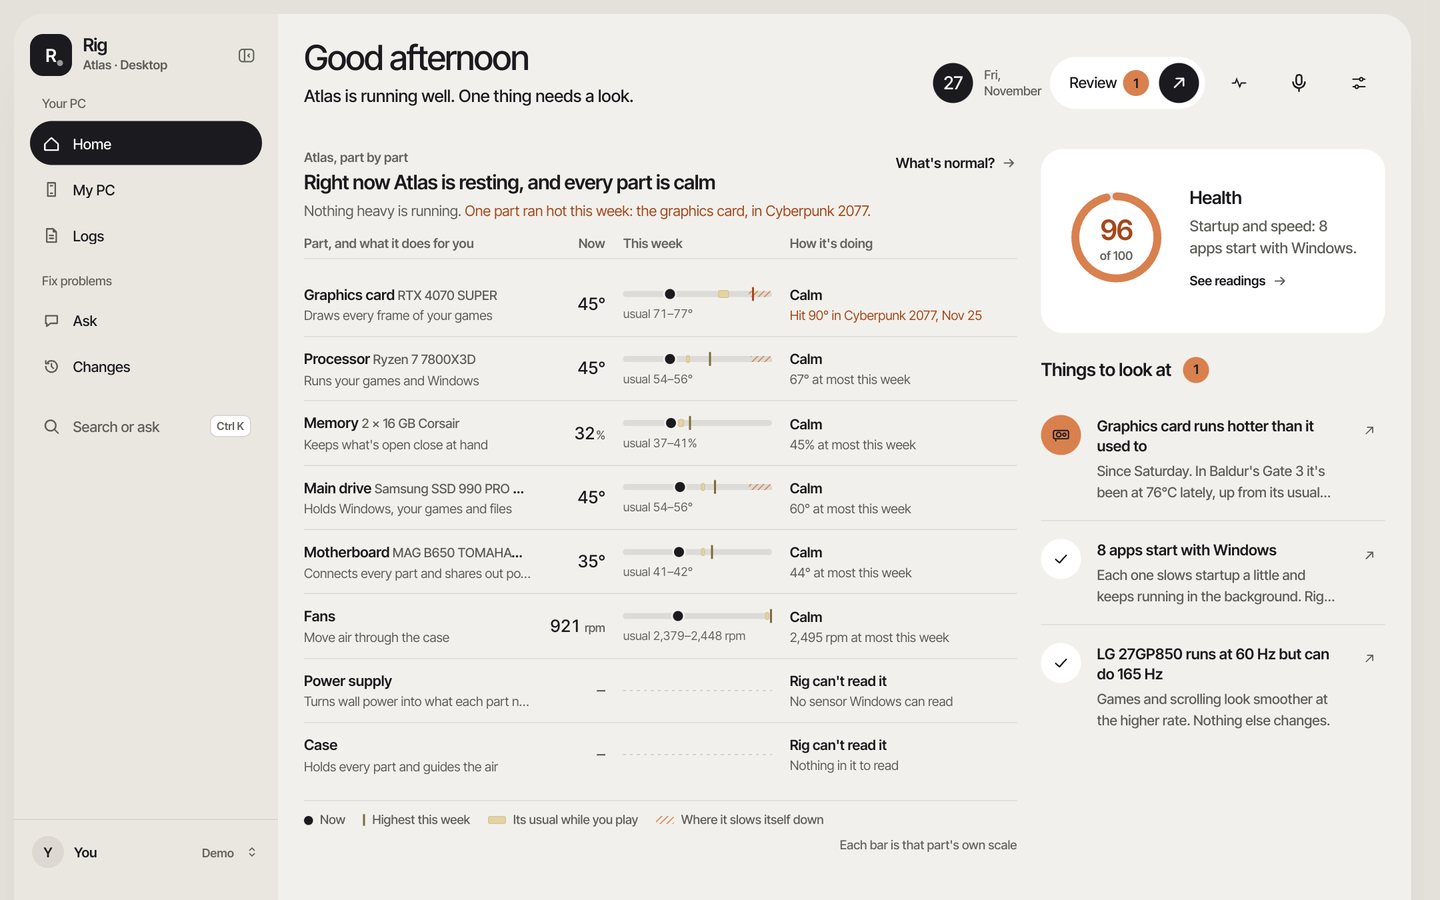
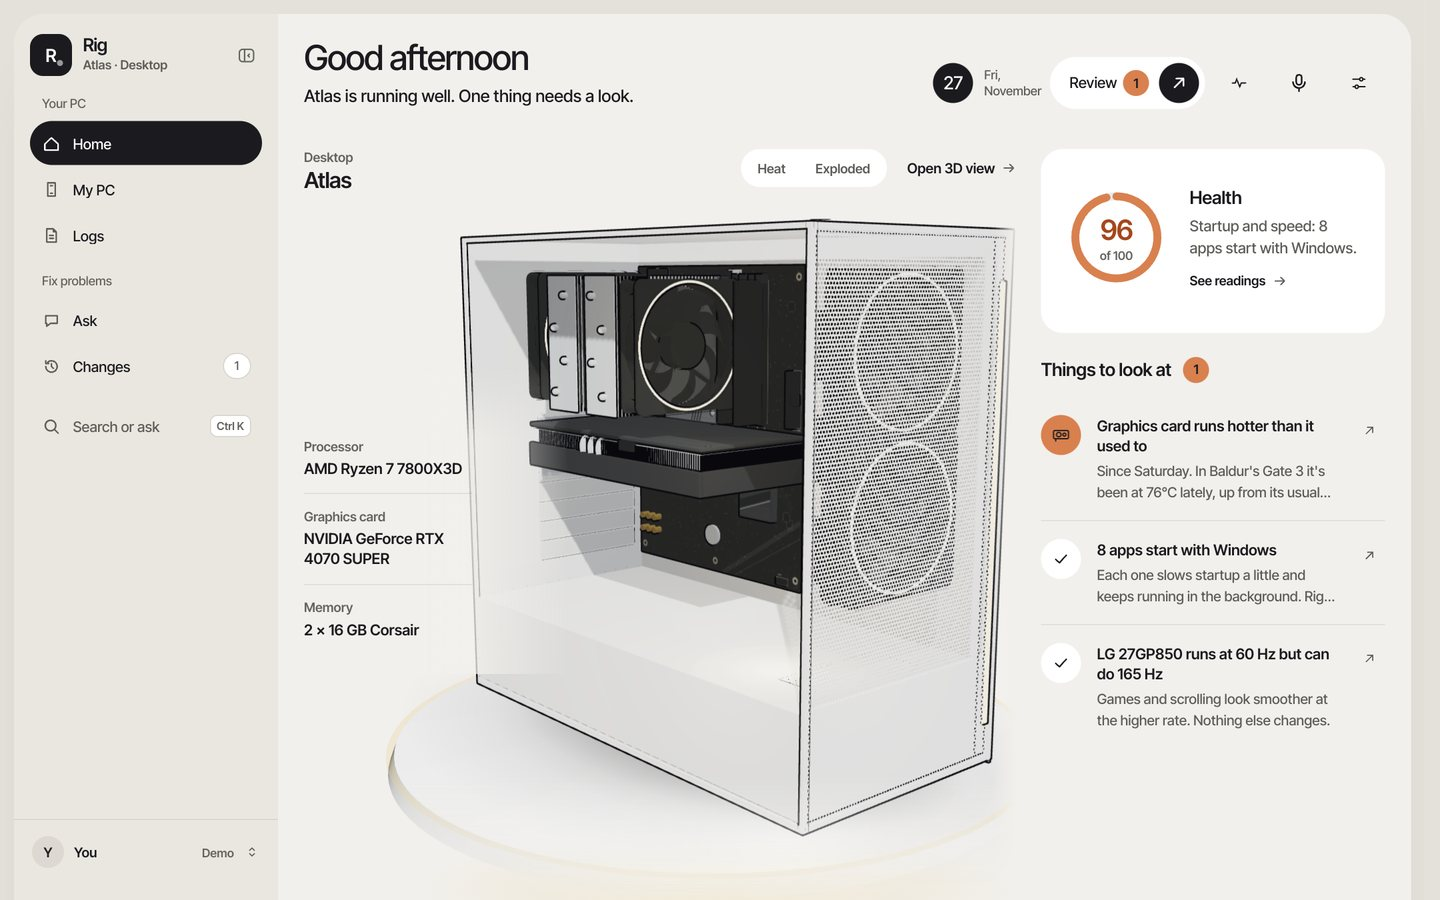
Show the whole graphics card on sign-in, and the 3D PC on the Home screenshot
The sign-in art is redrawn from the full render, bracket to fan shroud, and no
longer fades out on the right. On phones it sits whole above the form. The
install page's Home screenshot uses the Your PC widget's 3D style, so the
example dashboard shows the PC.

diff --git a/packages/ui/src/styles/pages/signin.css b/packages/ui/src/styles/pages/signin.css
@@ -7,7 +7,7 @@
 .signin-art .brand-mark::before { color: #F4F3F0; font-size: 17px; }
 .signin-art .brand-mark::after { right: 7px; bottom: 8px; width: 5px; height: 5px; }
 /* The art is about as tall as it is wide, so it is sized to fit the height too. */
-.signin-ink { width: min(100%, 780px, calc((100dvh - 152px) * 1.05)); transform: perspective(1600px) rotateX(14deg) rotateY(12deg) rotateZ(-4deg); -webkit-mask-image: linear-gradient(90deg, #000 72%, transparent 100%); mask-image: linear-gradient(90deg, #000 72%, transparent 100%); }
+.signin-ink { width: min(100%, 760px, calc((100dvh - 152px) * 1.02)); transform: perspective(1600px) rotateX(14deg) rotateY(12deg) rotateZ(-4deg); }
 
 .signin-form { display: grid; grid-template-rows: 1fr auto; justify-items: center; align-items: center; gap: 24px; padding: 48px max(24px, env(safe-area-inset-right, 0px)) 28px max(24px, env(safe-area-inset-left, 0px)); background: var(--bg); }
 .signin-box { width: 100%; max-width: 360px; display: flex; flex-direction: column; gap: 14px; }
@@ -29,10 +29,10 @@
 .or::after { content: ""; flex: 1; height: 1px; background: var(--line); }
 
 @media (max-width: 860px) {
-  .signin { grid-template-columns: 1fr; grid-template-rows: 220px 1fr; }
-  .signin-art { min-height: 0; display: block; padding: 0; }
+  .signin { grid-template-columns: 1fr; grid-template-rows: auto 1fr; }
+  .signin-art { min-height: 0; padding: 72px 0 0; }
   .signin-art .brand { top: 18px; left: 20px; }
-  .signin-ink { position: absolute; left: -8%; top: 40px; width: 116%; }
+  .signin-ink { width: min(64vw, 280px); }
   .signin-form { padding-top: 32px; }
 }
 :root:has(.signin) { scrollbar-gutter: auto; }
